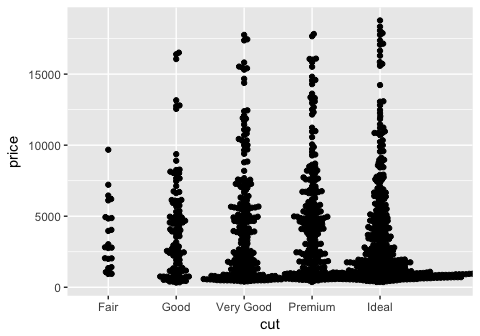
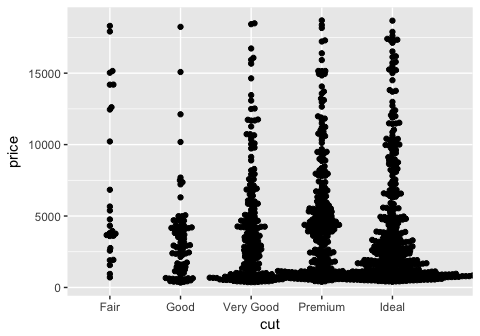
update formatting

diff --git a/r4ds_chapters7-8_walkthrough.md b/r4ds_chapters7-8_walkthrough.md
@@ -463,12 +463,12 @@ head(x)
 ```
 
     ##          x
-    ## 1 3.975666
-    ## 2 5.072309
-    ## 3 7.997199
-    ## 4 7.288635
-    ## 5 8.109720
-    ## 6 5.675823
+    ## 1 8.610660
+    ## 2 1.036452
+    ## 3 6.086193
+    ## 4 6.132567
+    ## 5 3.548619
+    ## 6 1.974829
 
 ``` r
 ggplot(x, aes(x))+
@@ -486,12 +486,12 @@ head(add_na)
 ```
 
     ##          x
-    ## 1 3.975666
-    ## 2       NA
+    ## 1 8.610660
+    ## 2 1.036452
     ## 3       NA
     ## 4       NA
-    ## 5 8.109720
-    ## 6       NA
+    ## 5 3.548619
+    ## 6 1.974829
 
 ``` r
 ggplot(add_na, aes(x))+
@@ -500,7 +500,7 @@ ggplot(add_na, aes(x))+
 
     ## `stat_bin()` using `bins = 30`. Pick better value with `binwidth`.
 
-    ## Warning: Removed 37 rows containing non-finite values (stat_bin).
+    ## Warning: Removed 26 rows containing non-finite values (stat_bin).
 
 ![](r4ds_chapters7-8_walkthrough_files/figure-markdown_github/introduce_NA_hist_bin-2.png)
 
@@ -793,16 +793,16 @@ The plots generated by geom\_jitter() are very similar to the stripchart() from 
     ## # A tibble: 1,000 x 10
     ##    carat cut     color clarity depth table price     x     y     z
     ##    <dbl> <ord>   <ord> <ord>   <dbl> <dbl> <int> <dbl> <dbl> <dbl>
-    ##  1 1.00  Premium G     VS2      60.0  59.0  5967  6.52  6.47  3.90
-    ##  2 0.240 Ideal   F     VVS2     60.7  56.0   552  3.98  4.03  2.43
-    ##  3 1.21  Premium I     SI1      61.0  56.0  4404  6.91  6.87  4.20
-    ##  4 1.51  Premium G     SI1      62.3  59.0  7577  7.29  7.21  4.52
-    ##  5 1.02  Premium F     SI2      62.5  60.0  4459  6.36  6.43  4.00
-    ##  6 1.03  Ideal   D     SI2      61.8  54.0  5013  6.46  6.52  4.01
-    ##  7 2.36  Ideal   I     SI2      60.8  54.0 11238  8.68  8.57  5.24
-    ##  8 1.13  Premium H     SI1      61.2  59.0  4689  6.68  6.65  4.08
-    ##  9 1.16  Good    H     SI1      64.2  58.6  5314  6.61  6.66  4.26
-    ## 10 0.900 Good    F     VS2      60.0  58.0  4655  6.21  6.26  3.74
+    ##  1 1.01  Premium E     SI1      62.4   59.  5430  6.38  6.35  3.97
+    ##  2 0.760 Ideal   J     SI1      61.9   53.  1859  5.85  5.92  3.64
+    ##  3 1.00  Premium F     SI1      62.1   60.  4234  6.29  6.23  3.88
+    ##  4 0.290 Ideal   G     VS1      62.2   54.   507  4.23  4.26  2.64
+    ##  5 1.00  Good    G     VVS2     60.9   56.  7492  6.49  6.52  3.96
+    ##  6 1.00  Premium D     SI1      62.0   58.  4704  6.41  6.29  3.94
+    ##  7 1.20  Premium I     SI1      61.4   57.  5098  6.87  6.80  4.20
+    ##  8 1.01  Good    F     SI2      63.7   59.  4166  6.28  6.38  4.03
+    ##  9 3.01  Good    I     SI2      63.9   60. 18242  9.06  9.01  5.77
+    ## 10 0.310 Ideal   F     IF       62.3   57.  1122  4.34  4.30  2.69
     ## # ... with 990 more rows
 
 ``` r
@@ -1226,4 +1226,4 @@ Whether you choose to use this feature or not, it is important to stay organized
 
 ------------------------------------------------------------------------
 
-Thanks for reading through my walkthrough of chapter 7-8! I hope you found my solutions to the exercises informative. A walkthrough of chapters 9-11 can be found at [r4ds\_chapters9-11\_walkthrough.md](https://github.com/erilu/R-for-data-science-walkthrough/blob/master/r4ds_chapters9-11_walkthrough.md).
+Thanks for reading through my walkthrough of chapter 7-8! I hope you found my solutions to the exercises informative. A walkthrough of chapters 9-13 can be found at [r4ds\_chapters9-13\_walkthrough.md](https://github.com/erilu/R-for-data-science-walkthrough/blob/master/r4ds_chapters9-13_walkthrough.md).

diff --git a/README.md b/README.md
@@ -9,7 +9,8 @@ I've written my notes and answers in R markdown ```.Rmd``` files, which I've ren
 The files are split up into groups of chapters within the book which focus on a common topic, listed below:
 
 * [Chapters 1-3](https://github.com/erilu/R-for-data-science-walkthrough/blob/master/r4ds_chapters1-3_walkthrough.md) Data Visualization using ggplot2
-* [Chapters 4-6](https://github.com/erilu/R-for-data-science-walkthrough/blob/master/r4ds_chapters4-6_walkthrough.md) Data Transformation
-* [Chapters 7-8](https://github.com/erilu/R-for-data-science-walkthrough/blob/master/r4ds_chapters7-8_walkthrough.md) Exploratory Data Analysis (in progress)
+* [Chapters 4-6](https://github.com/erilu/R-for-data-science-walkthrough/blob/master/r4ds_chapters4-6_walkthrough.md) Data Transformation using dplyr
+* [Chapters 7-8](https://github.com/erilu/R-for-data-science-walkthrough/blob/master/r4ds_chapters7-8_walkthrough.md) Exploratory Data Analysis
+* [Chapters 9-13](https://github.com/erilu/R-for-data-science-walkthrough/blob/master/r4ds_chapters9-13_walkthrough.md) Data Wranging Part 1 - Tibbles, Data Import, Tidy Data, and Relational Data (In progress)
 
 Thanks for stopping by! I hope my notes have helped you in your journey to learn techniques data science!
